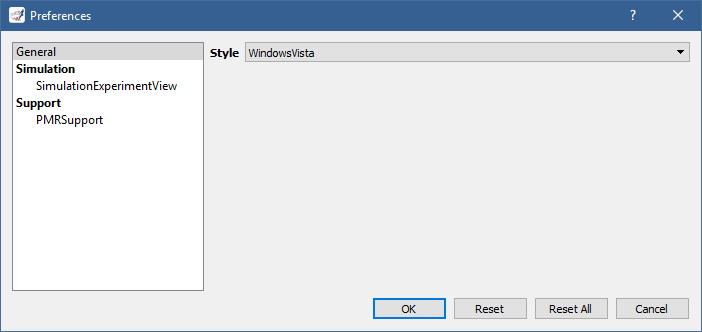
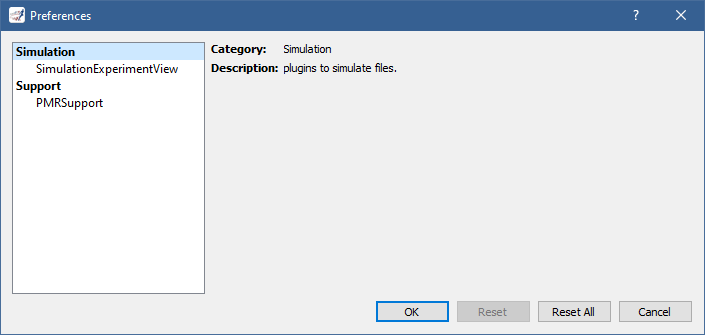
Updated our Preferences page.

diff --git a/src/preferences.rst b/src/preferences.rst
@@ -4,18 +4,11 @@
  Preferences
 =============
 
-Certain aspects of OpenCOR and of its plugins can be configured through preferences, as can be seen by opening the Preferences dialog (either by selecting the ``Tools`` | ``Preferences...`` menu or by clicking `here <opencor://openPreferencesDialog>`__):
+Certain aspects of OpenCOR's plugins can be configured through preferences, as can be seen by opening the Preferences dialog (either by selecting the ``Tools`` | ``Preferences...`` menu or by clicking `here <opencor://openPreferencesDialog>`__):
 
 .. image:: pics/preferences01.png
    :align: center
    :scale: 25%
-
-Preferences for OpenCOR itself are currently limited to the style used to render the :ref:`GUI <userInterfaces_graphicalUserInterface>`.
-Available styles are:
-
-- **Windows:** ``Fusion``, ``Windows``, and ``windowsvista`` (default).
-- **Linux:** ``Fusion`` (default) and ``Windows``.
-- **macOS:** ``Fusion``, ``macintosh`` (default), and ``Windows``.
 
 Click on the ``OK`` button for your changes to take effect.
 Alternatively, click on the ``Reset`` button to reset the *current* preferences page or on the ``Reset All`` button to reset *all* the preferences pages.
